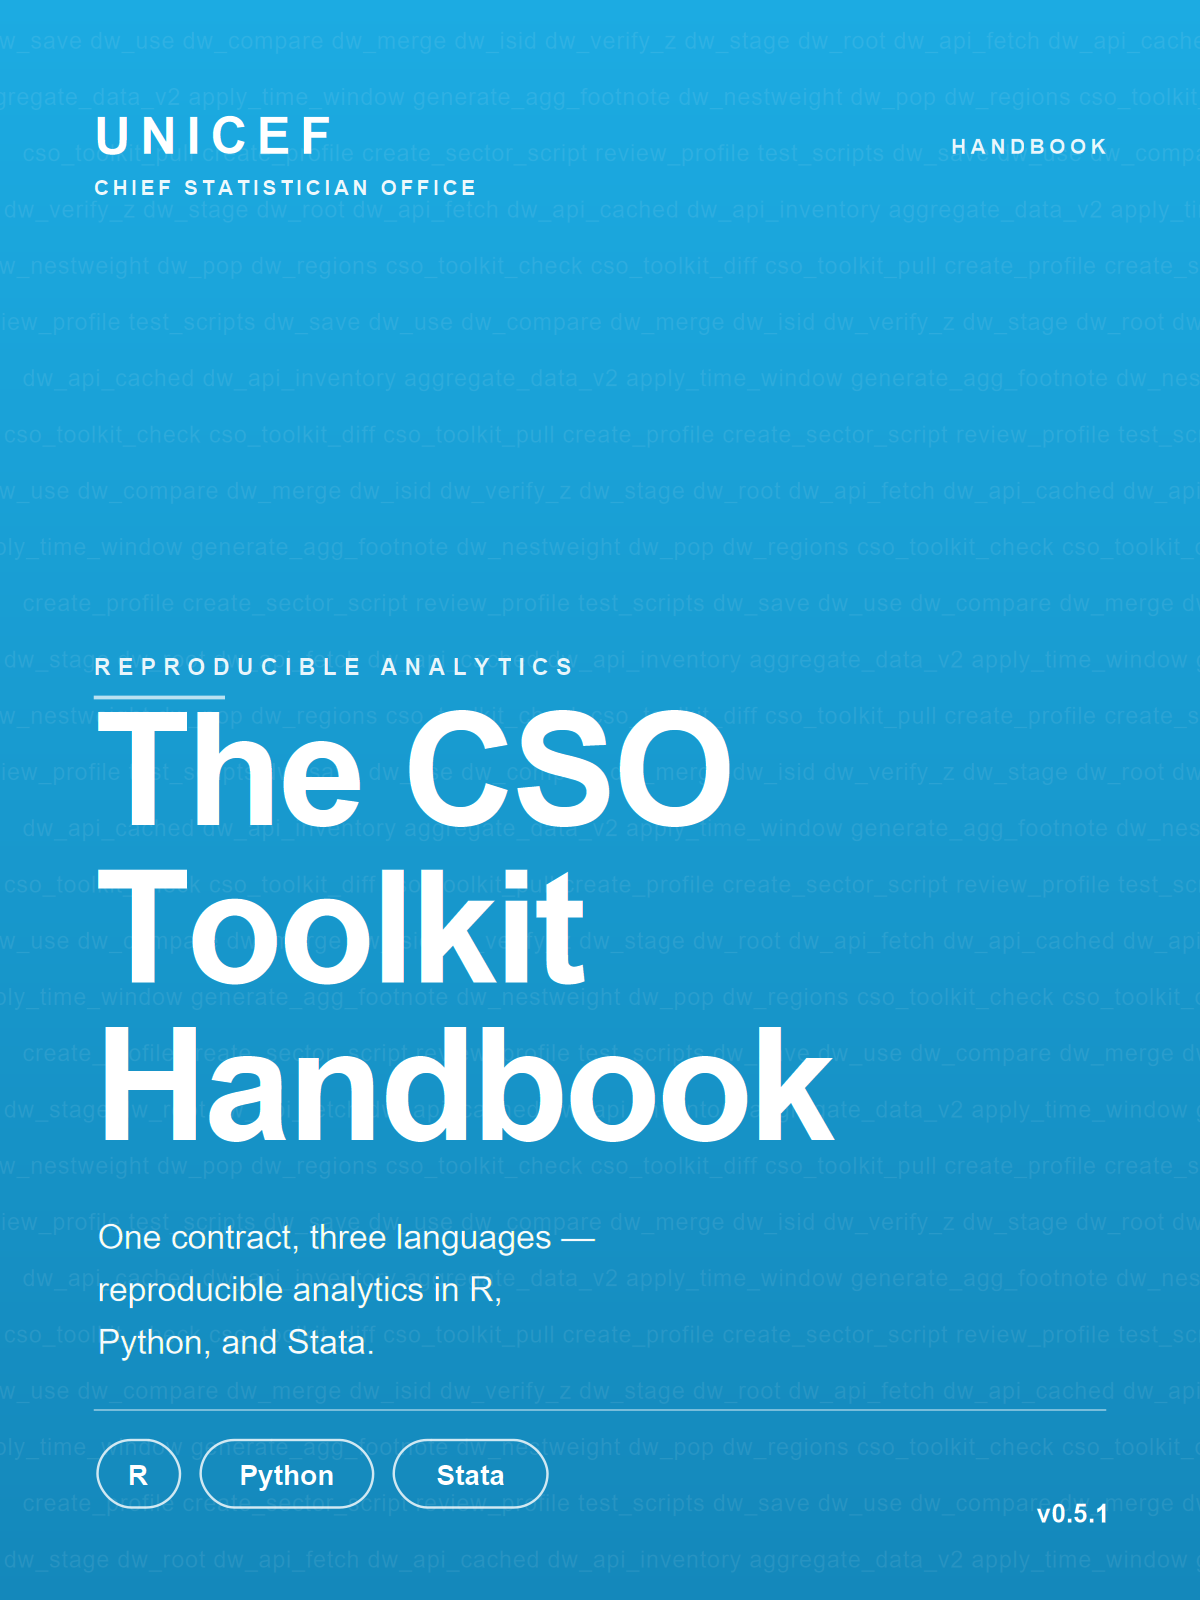
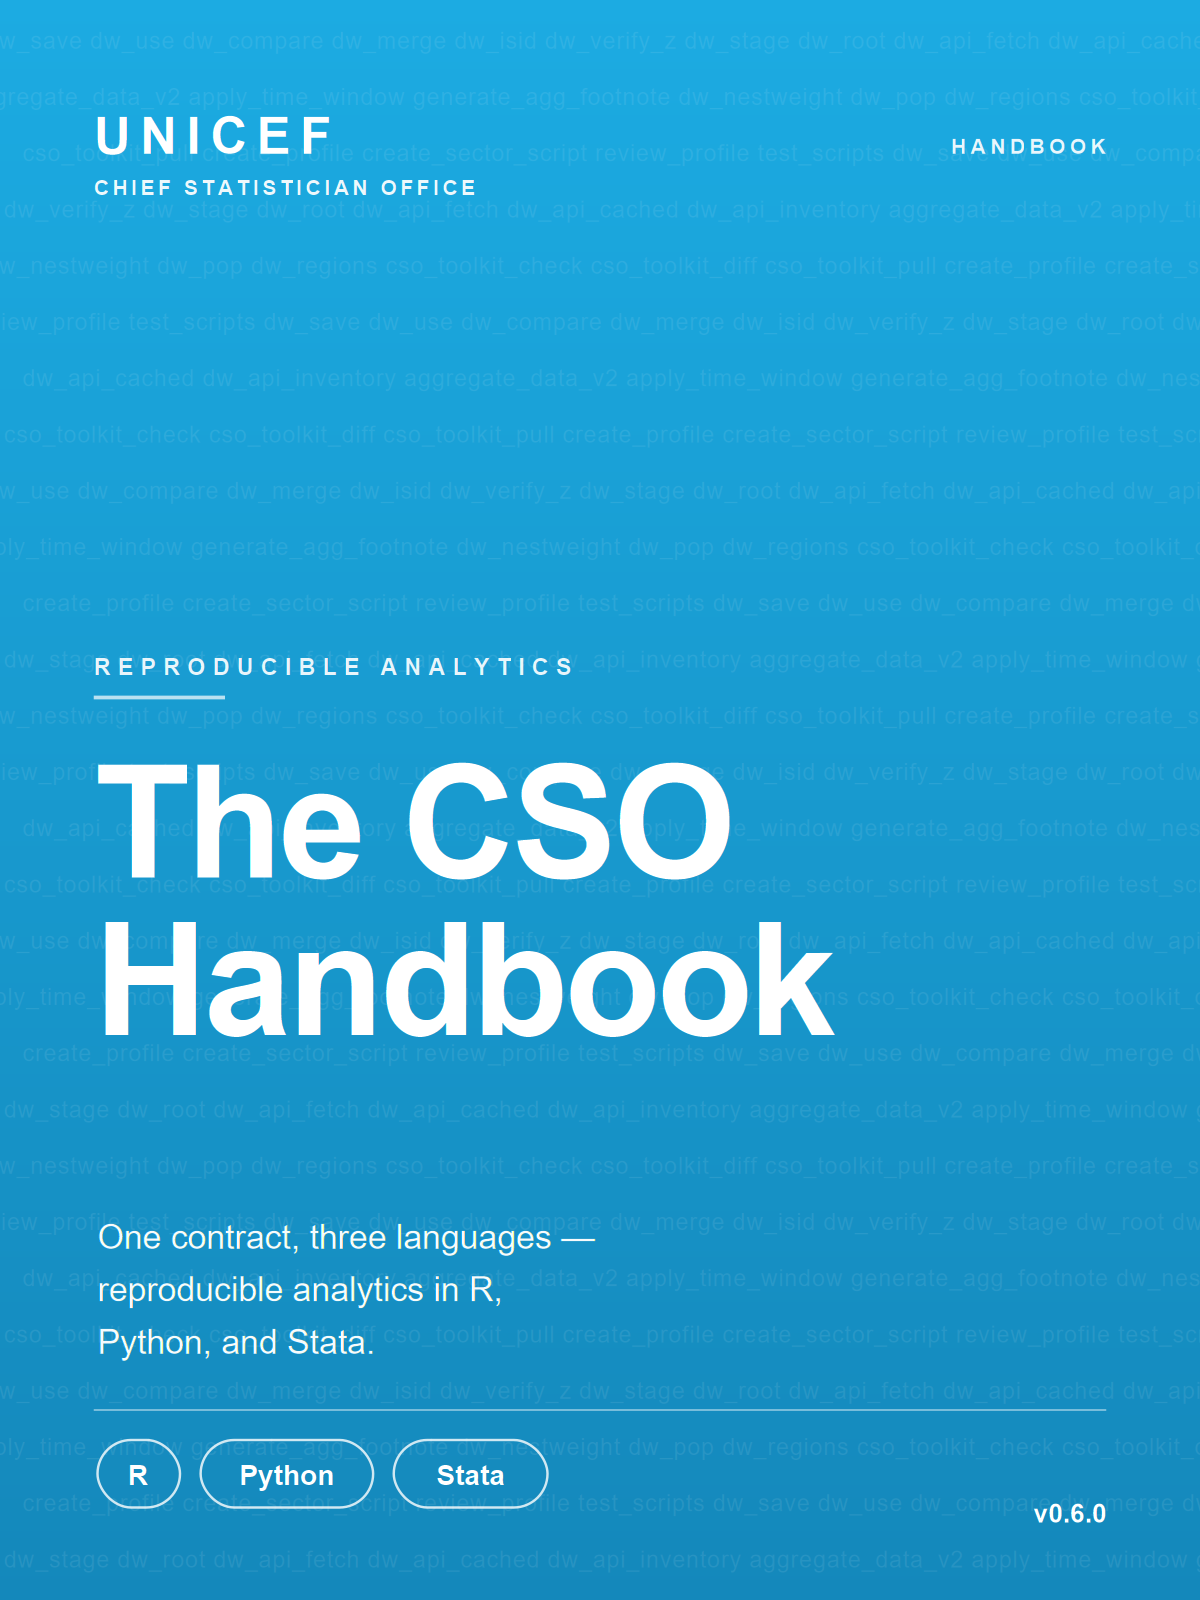
feat(handbook): rename to 'The CSO Handbook' + ecosystem taxonomy (phase 1B)
The book becomes the umbrella for the three-tier CSO analytics ecosystem:

- Title: 'The CSO Toolkit Handbook' -> 'The CSO Handbook' across _quarto.yml,
  index.qmd (incl. the PDF download link), CITATION.cff, .zenodo.json,
  how-to-cite (citation key csohandbook2026), README badge line, and the
  regenerated cover (SVG source + 1200x1600 PNG; title recentred for two
  lines). Historical mentions in NEWS.md / README version table left as-is.
- ch 12 gains one bounded section 'The wider ecosystem': the three-tier
  table (toolkit / UNICEF-supported packages / third-party), criteria-based
  tier-(ii) membership with datalib as provisional member and the mapping
  capability under evaluation (no candidate named), the parity pledge, and
  a config-divergence callout (datalib: specific file only until the
  dw_load_config indent guard ships).
- Appendix A: authority sentence (A = contract view, D = finding aid);
  three missing rows added (dw_verbosity, dw_default_unicef_allowlist,
  dw_publish incl. its issue-#15 skeleton status); CI rows/prose updated
  for the conformance harness (#134); scoped datalib note appended.
- NEW Appendix F: curated third-party register — derived-not-curated
  inclusion rules, sector-lead verification stamps, staleness policy,
  deliberately empty starter table.

Verified: quarto render (HTML) clean, 27/27 files, title + appendix F
confirmed in output. PDF leg validated by publish-book.yml on this PR.

Changed region(s): [[0.0617, 0.4375, 0.7092, 0.7188], [0.8633, 0.9375, 0.925, 0.9688]]

diff --git a/book/images/generate-cover.js b/book/images/generate-cover.js
@@ -1,6 +1,6 @@
 /* ------------------------------------------------------------------ *
  *  generate-cover.js
- *  Generates an SVG of "The CSO Toolkit Handbook" cover — option A
+ *  Generates an SVG of "The CSO Handbook" cover — option A
  *  (UNICEF-cyan, official). Pure vector, no external assets.
  *
  *  Design: a full-frame faint "code rain" of the toolkit's own
@@ -33,7 +33,7 @@ const CONFIG = {
   unit: 'CHIEF STATISTICIAN OFFICE',
   flag: 'HANDBOOK',
   kicker: 'REPRODUCIBLE ANALYTICS',
-  title: ['The CSO', 'Toolkit', 'Handbook'],
+  title: ['The CSO', 'Handbook'],
   subtitle: [
     'One contract, three languages —',
     'reproducible analytics in R,',
@@ -98,8 +98,8 @@ function buildSVG(cfg = CONFIG) {
     return el;
   }).join('\n    ');
 
-  // --- title: 3 lines, large, 84px leading ---
-  const titleBaselines = [440, 524, 608];
+  // --- title: large, 84px leading; baselines recentred for the line count ---
+  const titleBaselines = cfg.title.length === 3 ? [440, 524, 608] : [468, 552];
   const titleEls = cfg.title.map((line, i) =>
     `<text x="50" y="${titleBaselines[i]}">${esc(line)}</text>`
   ).join('\n    ');

diff --git a/README.md b/README.md
@@ -10,7 +10,7 @@
 [![License: MIT (code) + CC BY 4.0 (docs)](https://img.shields.io/badge/license-MIT%20%2B%20CC--BY--4.0-blue)](LICENSE)
 [![Tag](https://img.shields.io/github/v/tag/unicef-drp/cso-toolkit?label=tag)](https://github.com/unicef-drp/cso-toolkit/releases)
 
-📖 **[The CSO Toolkit Handbook](https://unicef-drp.github.io/cso-toolkit/handbook/)** — the cross-language guide to the contract (R · Python · Stata).
+📖 **[The CSO Handbook](https://unicef-drp.github.io/cso-toolkit/handbook/)** — the cross-language guide to the contract (R · Python · Stata).
 
 ---
 

diff --git a/book/images/README.md b/book/images/README.md
@@ -1,6 +1,6 @@
 # Handbook cover
 
-`cover-A.png` is the cover of *The CSO Toolkit Handbook*, wired into the book via
+`cover-A.png` is the cover of *The CSO Handbook*, wired into the book via
 `cover-image: images/cover-A.png` in [`../_quarto.yml`](../_quarto.yml).
 
 | File | Role |
